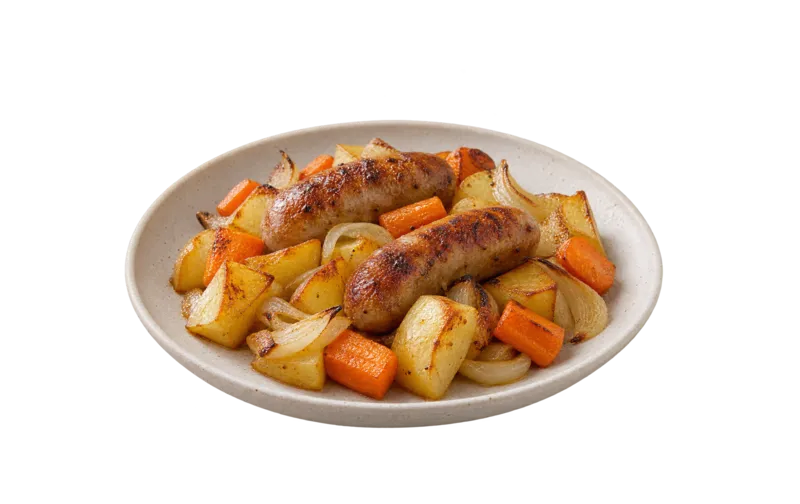
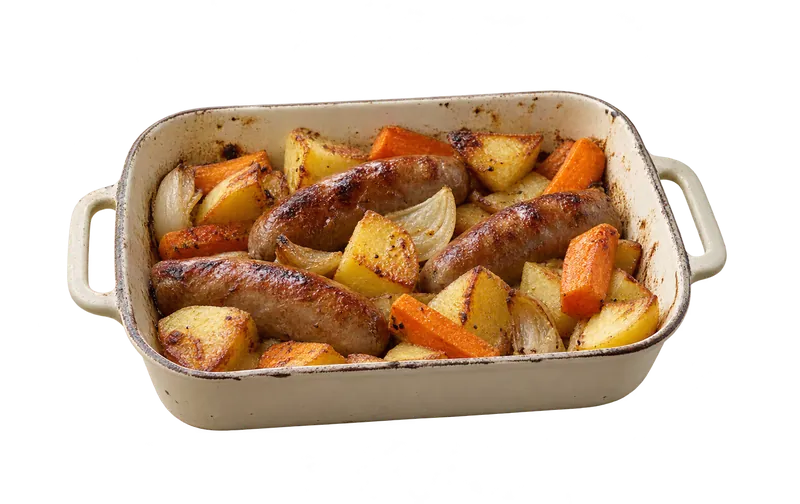
Add low-effort family dinners with matching food photos (#63)
* Add low-effort family dinners and matching food photography

* Clarify cooked-chicken reheating and allow realistic hash cooking time

diff --git a/e2e/food-types.spec.ts b/e2e/food-types.spec.ts
@@ -15,16 +15,16 @@ test('multiple food types combine with search and quick filters and can be clear
   await page.getByRole('searchbox',{name:'Search recipes'}).fill('tomato');
   await expect(page.locator('.recipe-card')).toHaveCount(1);
   await expect(page.locator('.recipe-card h3')).toHaveText('Chicken & tomato pasta');
-  await expect(page.locator('.recipe-result-count')).toHaveText('1 of 41 recipes');
+  await expect(page.locator('.recipe-result-count')).toHaveText('1 of 45 recipes');
   await chooseTypes(page,['Fish']);
   await expect(page.getByRole('heading',{name:'No recipes found'})).toBeVisible();
   await page.getByRole('button',{name:'Show everything'}).click();
   await expect(page.getByRole('button',{name:/Food types/})).toContainText('All food');
   await expect(page.getByRole('searchbox')).toHaveValue('');
-  await expect(page.locator('.recipe-card')).toHaveCount(41);
+  await expect(page.locator('.recipe-card')).toHaveCount(45);
   await chooseTypes(page,['Rice']);
   await page.getByRole('button',{name:'Clear filters',exact:true}).click();
-  await expect(page.locator('.recipe-card')).toHaveCount(41);
+  await expect(page.locator('.recipe-card')).toHaveCount(45);
 });
 
 test('selected categories match either type and can be removed individually',async ({page})=>{
@@ -35,9 +35,9 @@ test('selected categories match either type and can be removed individually',asy
   await expect(page.locator('#home-results').getByRole('heading',{name:'One-pot chicken rice',exact:true})).toBeVisible();
   await expect(page.getByRole('heading',{name:'Speedy tomato pasta',exact:true})).toHaveCount(0);
   await page.getByRole('button',{name:'Remove Chicken filter',exact:true}).click();
-  await expect(page.locator('.recipe-card')).toHaveCount(4);
+  await expect(page.locator('.recipe-card')).toHaveCount(5);
   await page.getByRole('button',{name:'Remove Fish filter',exact:true}).click();
-  await expect(page.locator('.recipe-card')).toHaveCount(41);
+  await expect(page.locator('.recipe-card')).toHaveCount(45);
 });
 
 test('food selections survive opening a recipe and returning to the list',async ({page})=>{
@@ -58,7 +58,7 @@ test('picker cancels on Escape and restores focus without applying draft changes
   await sheet.getByRole('checkbox',{name:'Fish',exact:true}).check();
   await page.keyboard.press('Escape');
   await expect(trigger).toBeFocused();
-  await expect(page.locator('.recipe-card')).toHaveCount(41);
+  await expect(page.locator('.recipe-card')).toHaveCount(45);
   await trigger.click();
   await expect(sheet.getByRole('checkbox',{name:'Fish',exact:true})).not.toBeChecked();
   await sheet.getByRole('checkbox',{name:'Fish',exact:true}).check();
@@ -66,7 +66,7 @@ test('picker cancels on Escape and restores focus without applying draft changes
   await trigger.click();
   await sheet.getByRole('button',{name:'Clear selection'}).click();
   await sheet.getByRole('button',{name:'Apply filters'}).click();
-  await expect(page.locator('.recipe-card')).toHaveCount(41);
+  await expect(page.locator('.recipe-card')).toHaveCount(45);
 });
 
 test('finding meals from the larder clears previous food restrictions',async ({page},info)=>{

diff --git a/e2e/low-effort-meals.spec.ts b/e2e/low-effort-meals.spec.ts
@@ -1,0 +1,44 @@
+import { expect, test } from '@playwright/test';
+import { readFileSync } from 'node:fs';
+
+const ids = ['one-pot-cheesy-tomato-pasta', 'sausage-traybake', 'chicken-stuffing-pie', 'creamy-tuna-sweetcorn-pasta', 'beef-potato-hash'];
+const meals = (JSON.parse(readFileSync('src/data/recipes.json', 'utf8')) as { id: string; title: string; image: string }[]).filter(r => ids.includes(r.id));
+
+test('low-effort meals have working direct routes, transparent photos and cooking pages offline', async ({ page, context }) => {
+  await page.goto('/nibblepot/');
+  await page.evaluate(async () => {
+    await navigator.serviceWorker.ready;
+    if (!navigator.serviceWorker.controller) await new Promise<void>(resolve => navigator.serviceWorker.addEventListener('controllerchange', () => resolve(), { once: true }));
+  });
+  await context.setOffline(true);
+  for (const meal of meals) {
+    await page.goto(`/nibblepot/recipes/${meal.id}/`);
+    await expect(page.locator('.recipe-page h1')).toHaveText(meal.title);
+    const photo = page.locator('.recipe-page-image img');
+    await expect(photo).toHaveAttribute('src', `/nibblepot/${meal.image}`);
+    await expect.poll(() => photo.evaluate((img: HTMLImageElement) => img.complete && img.naturalWidth === 800)).toBe(true);
+    expect(await photo.evaluate((img: HTMLImageElement) => {
+      const canvas = document.createElement('canvas'); canvas.width = 800; canvas.height = 504;
+      const ctx = canvas.getContext('2d')!; ctx.drawImage(img, 0, 0);
+      return [[0,0],[799,0],[0,503],[799,503]].map(([x,y]) => ctx.getImageData(x,y,1,1).data[3]);
+    })).toEqual([0,0,0,0]);
+    expect(await page.evaluate(() => document.documentElement.scrollWidth <= innerWidth + 1)).toBe(true);
+    await page.getByRole('button', { name: 'Start cooking', exact: true }).click();
+    await expect(page).toHaveURL(new RegExp(`/recipes/${meal.id}/cook/`));
+  }
+});
+
+test('stuffing pie scales cooked chicken and adds it to shopping separately from raw chicken', async ({ page }, info) => {
+  await page.goto('/nibblepot/recipes/chicken-stuffing-pie/');
+  await page.evaluate(() => localStorage.setItem('nibblepot-demo-v1', JSON.stringify({ larder: ['chicken'], favorites: [], shopping: [] })));
+  await page.reload();
+  await page.getByRole('button', { name: 'Fewer servings' }).click();
+  await page.getByRole('button', { name: 'Fewer servings' }).click();
+  await expect(page.locator('.ingredient-line').filter({ hasText: 'Cooked chicken' })).toContainText('200 g');
+  await page.getByRole('button', { name: 'Save recipe', exact: true }).click();
+  await page.getByRole('button', { name: 'Add missing bits', exact: true }).click();
+  await page.getByRole('navigation', { name: info.project.name === 'mobile' ? 'Mobile navigation' : 'Main navigation' }).getByRole('button', { name: 'Shopping', exact: true }).click();
+  await expect(page.locator('.shop-row').filter({ hasText: 'Cooked chicken' })).toContainText('200 g');
+  await page.reload();
+  expect(await page.evaluate(() => JSON.parse(localStorage.getItem('nibblepot-demo-v1')!).favorites)).toContain('chicken-stuffing-pie');
+});

diff --git a/tests/foodTypes.test.ts b/tests/foodTypes.test.ts
@@ -8,6 +8,8 @@ const recipe = (id: string) => recipes.find(item=>item.id===id)!;
 describe('food type filters',()=>{
   it('uses ingredients and allows overlapping categories',()=>{
     expect(matchesFoodType(recipe('chicken-tomato-pasta'),'chicken')).toBe(true);
+    expect(matchesFoodType(recipe('chicken-stuffing-pie'),'chicken')).toBe(true);
+    expect(matchesFoodType(recipe('chicken-stuffing-pie'),'meat-free')).toBe(false);
     expect(matchesFoodType(recipe('chicken-tomato-pasta'),'pasta')).toBe(true);
     expect(matchesFoodType(recipe('chicken-tomato-pasta'),'rice')).toBe(false);
     expect(matchesFoodType(recipe('ham-pea-pasta'),'pork')).toBe(true);
@@ -25,7 +27,7 @@ describe('food type filters',()=>{
   it('offers populated food types without changing default catalogue results',()=>{
     expect(filterRecipes(recipes,'','all',[])).toEqual(filterRecipes(recipes,'','all',[],['all']));
     for(const type of foodTypes) expect(filterRecipes(recipes,'','all',[],[type.id]).length).toBeGreaterThan(0);
-    expect(filterRecipes(recipes,'','all',[],['fish']).map(item=>item.id)).toEqual(['tuna-bake','fish-butties','tuna-jackets','fish-wedges']);
+    expect(filterRecipes(recipes,'','all',[],['fish']).map(item=>item.id)).toEqual(['tuna-bake','fish-butties','tuna-jackets','fish-wedges','creamy-tuna-sweetcorn-pasta']);
   });
   it('combines food type with search, quick filters and larder ranking',()=>{
     expect(filterRecipes(recipes,'tomato','quick',[],['chicken']).map(item=>item.id)).toEqual(['chicken-tomato-pasta']);

diff --git a/e2e/app.spec.ts b/e2e/app.spec.ts
@@ -18,7 +18,7 @@ test('random dinner and recipe flow', async ({ page }, testInfo) => {
   await page.reload();
 
   await expect(page.getByRole('region', { name: "Tonight's inspiration" })).toBeVisible();
-  await expect(page.locator('.recipe-card')).toHaveCount(41);
+  await expect(page.locator('.recipe-card')).toHaveCount(45);
   await page.getByRole('region', { name: "Tonight's inspiration" }).getByRole('button', { name: /surprise me/i }).click();
   await page.getByRole('region', { name: "Tonight's inspiration" }).getByRole('button', { name: /view recipe/i }).click();
   await expect(page).toHaveURL(/\/nibblepot\/recipes\/[a-z0-9-]+\//);
@@ -78,7 +78,7 @@ test('opening a recipe navigates to its own page and Back returns to listing', a
   await expect(page.locator('.recipe-page h1')).toHaveText('Jacket potatoes & beans');
   await page.getByRole('button', { name: /back to recipes/i }).click();
   await expect(page).toHaveURL(/\/nibblepot\/$/);
-  await expect(page.locator('.recipe-card')).toHaveCount(41);
+  await expect(page.locator('.recipe-card')).toHaveCount(45);
   await expect(link).toBeFocused();
 });
 
@@ -160,5 +160,5 @@ test('pull-to-refresh is available on mobile and reloads instead of rerendering'
   });
   await loaded;
   expect(await page.evaluate(() => sessionStorage.getItem('touch-started'))).toBe('yes');
-  await expect(page.locator('.recipe-card')).toHaveCount(41);
+  await expect(page.locator('.recipe-card')).toHaveCount(45);
 });

diff --git a/e2e/illustrations.spec.ts b/e2e/illustrations.spec.ts
@@ -2,11 +2,11 @@ import { expect, test } from '@playwright/test';
 
 test('recipe catalogue illustrations load on mobile and desktop', async ({ page }) => {
   await page.goto('/nibblepot/');
-  await expect(page.locator('.recipe-card')).toHaveCount(41);
+  await expect(page.locator('.recipe-card')).toHaveCount(45);
   const art = page.locator('.recipe-card .recipe-illustration');
-  await expect(art).toHaveCount(41);
+  await expect(art).toHaveCount(45);
   await expect(art.first()).toHaveAttribute('src', /\/nibblepot\/recipes\/jacket\.webp/);
-  await expect(page.locator('.recipe-card img.recipe-photo')).toHaveCount(41);
+  await expect(page.locator('.recipe-card img.recipe-photo')).toHaveCount(45);
   await expect(page.locator('.recipe-card .recipe-illustration[src$="/recipes/traybake.webp"]')).toHaveCount(1);
   await art.first().scrollIntoViewIfNeeded();
   await expect.poll(() => art.first().evaluate((img: HTMLImageElement) => img.complete && img.naturalWidth > 0)).toBe(true);

diff --git a/tests/recipeQuality.test.ts b/tests/recipeQuality.test.ts
@@ -6,12 +6,12 @@ import { recipePath, cookingPath } from '../src/lib/routes';
 
 const originalIds = ['jacket','sausage-bean','chicken-rice','cottage','tuna-bake','tomato-pasta','egg-rice','quesadilla','mash','butter-stew','traybake','toasties','meatball','fish-butties','soup','chilli-jacket'];
 describe('recipe quality gate', () => {
-  it('preserves all original recipe IDs and has twenty-five additions', () => {
-    expect(recipes).toHaveLength(41);
+  it('preserves all original recipe IDs and has twenty-nine additions', () => {
+    expect(recipes).toHaveLength(45);
     const ids = recipes.map(r => r.id);
-    expect(new Set(ids).size).toBe(41);
+    expect(new Set(ids).size).toBe(45);
     expect(ids.slice(0,16)).toEqual(originalIds);
-    expect(ids.slice(16)).toHaveLength(25);
+    expect(ids.slice(16)).toHaveLength(29);
   });
   for (const recipe of recipes) {
     it('checks quantities, references and safety: ' + recipe.id, () => {

diff --git a/e2e/planner.spec.ts b/e2e/planner.spec.ts
@@ -71,9 +71,9 @@ test('changing a dinner is searchable, filtered, undoable and keyboard accessibl
   await monday.click();
   const picker=page.getByRole('dialog',{name:'Change Monday dinner'});
   await expect(picker).toBeVisible();
-  await expect(picker.locator('.planner-meal-option')).toHaveCount(41);
+  await expect(picker.locator('.planner-meal-option')).toHaveCount(45);
   await picker.getByRole('button',{name:'30 min or less'}).click();
-  await expect(picker.locator('.planner-meal-option').count()).resolves.toBeLessThan(41);
+  await expect(picker.locator('.planner-meal-option').count()).resolves.toBeLessThan(45);
   await picker.getByRole('button',{name:'All meals'}).click();
   await picker.getByRole('searchbox',{name:'Search meals'}).fill('fried rice');
   await expect(picker.locator('.planner-meal-option')).toHaveCount(1);

diff --git a/src/lib/foodTypes.ts b/src/lib/foodTypes.ts
@@ -14,11 +14,11 @@ export const foodTypes = [
 export type FoodType = typeof foodTypes[number]['id'];
 
 const ingredientsByType = {
-  chicken: ['chicken'], beef: ['beef'], pork: ['sausages', 'ham'],
+  chicken: ['chicken', 'cooked-chicken'], beef: ['beef'], pork: ['sausages', 'ham'],
   fish: ['tuna', 'fish-fingers'], pasta: ['pasta', 'noodles'],
   rice: ['rice'], potatoes: ['potatoes'],
 };
-const meatAndFish = new Set(['chicken', 'beef', 'sausages', 'ham', 'meatballs', 'tuna', 'fish-fingers']);
+const meatAndFish = new Set(['chicken', 'cooked-chicken', 'beef', 'sausages', 'ham', 'meatballs', 'tuna', 'fish-fingers']);
 
 /** Categories can overlap: chicken pasta belongs to both Chicken and Pasta.
  * Match catalogue IDs rather than titles, and do not infer a meatball's meat.

diff --git a/tests/recipes.test.ts b/tests/recipes.test.ts
@@ -4,8 +4,8 @@ import { addMissingIngredients, chooseRandomRecipe, filterRecipes, inLarder, mis
 import { DEFAULT_DATA, parseSavedData } from '../src/lib/storage';
 
 describe('recipe catalogue', () => {
-  it('has 41 recipes including all 16 original IDs with valid ingredient IDs', () => {
-    expect(recipes).toHaveLength(41);
+  it('has 45 recipes including all 16 original IDs with valid ingredient IDs', () => {
+    expect(recipes).toHaveLength(45);
     for(const id of ['jacket','sausage-bean','chicken-rice','cottage','tuna-bake','tomato-pasta','egg-rice','quesadilla','mash','butter-stew','traybake','toasties','meatball','fish-butties','soup','chilli-jacket']) {
       expect(recipes.some(recipe=>recipe.id===id)).toBe(true);
     }

diff --git a/e2e/routes.spec.ts b/e2e/routes.spec.ts
@@ -29,7 +29,7 @@ test('browser back and forward restore recipe and catalogue', async ({ page }) =
   await page.getByRole('link', { name: /jacket potatoes/i }).first().click();
   await expect(page.locator('.recipe-page h1')).toHaveText('Jacket potatoes & beans');
   await page.goBack();
-  await expect(page.locator('.recipe-card')).toHaveCount(41);
+  await expect(page.locator('.recipe-card')).toHaveCount(45);
   await page.goForward();
   await expect(page.locator('.recipe-page h1')).toHaveText('Jacket potatoes & beans');
 });

diff --git a/e2e/motion.spec.ts b/e2e/motion.spec.ts
@@ -42,7 +42,7 @@ test('Back dismisses sheets before navigation and Forward reopens them',async({p
   await page.goBack();
   await expect(sheet).toHaveCount(0);
   await expect(page).toHaveURL(/\/nibblepot\/$/);
-  await expect(page.locator('.recipe-card')).toHaveCount(41);
+  await expect(page.locator('.recipe-card')).toHaveCount(45);
   await page.goForward();
   await expect(sheet).toBeVisible();
   await expect(sheet.getByRole('checkbox',{name:'Fish',exact:true})).not.toBeChecked();
